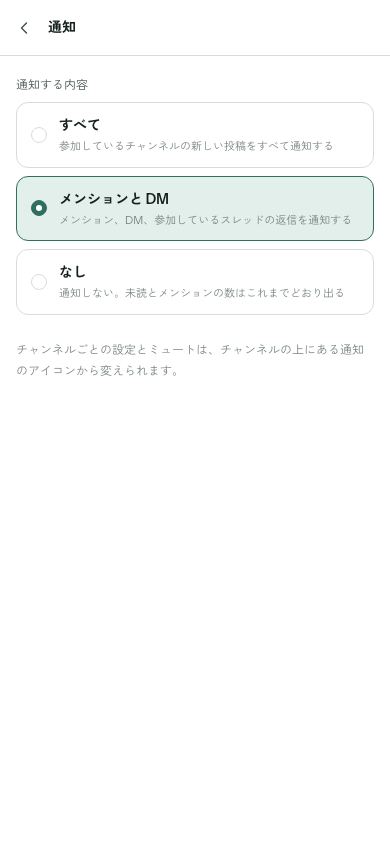
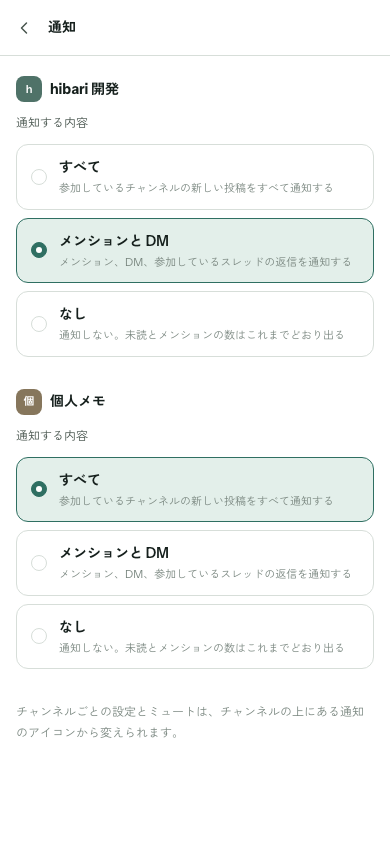
docs(adr): 通知の全体の設定をワークスペースごとに改め、スレッドのミュートを 6.14c に足す
- ADR 0055 決定 2: user_notification_settings をやめ、workspace_members.notify_level にする（オーナーの判断）
- API を /workspaces/{id}/me/notifications に、notifications.updated に workspace_id を足した
- ユーザー設定の「通知」を、所属するワークスペースごとの節にした
- ロードマップに Phase 6.14c（スレッドのミュート。6.14b より先に作る）を足した

diff --git a/web/components/settings/settings-sections.tsx b/web/components/settings/settings-sections.tsx
@@ -249,48 +249,51 @@ export const notificationLevelLabels: Record<NotificationLevel, string> = {
   none: "なし",
 };
 
+/** ユーザー設定の「通知」の 1 節（ワークスペース 1 つ分）。 */
+export type WorkspaceNotificationView = { id: string; name: string; level: NotificationLevel };
+
+const levelDescriptions: Record<NotificationLevel, string> = {
+  all: "参加しているチャンネルの新しい投稿をすべて通知する",
+  mentions: "メンション、DM、参加しているスレッドの返信を通知する",
+  none: "通知しない。未読とメンションの数はこれまでどおり出る",
+};
+
 /**
- * ユーザー設定の「通知」。全体の設定だけを選ぶ。チャンネルごとの上書きとミュートは、ルームのヘッダーの「通知」から変える
- * （Slack と同じ入口。ここに全ルームの一覧を並べると、ワークスペースを選ぶ場所が要る。ADR 0055 決定 2）。
+ * ユーザー設定の「通知」。全体の設定はワークスペースごとなので（ADR 0055 決定 2）、所属するワークスペースごとに節を並べる。
+ * チャンネルごとの上書きとミュートは、ルームのヘッダーの「通知」から変える（Slack と同じ入口）。
  *
  * 設定が変えるのは「通知するか」だけで、未読とメンションの件数はどれを選んでも数える（決定 1）。
  */
 export function NotificationSettings({
-  level,
+  workspaces,
   onLevelChange,
 }: {
-  level: NotificationLevel;
-  onLevelChange?: (level: NotificationLevel) => void;
+  workspaces: WorkspaceNotificationView[];
+  onLevelChange?: (workspaceId: string, level: NotificationLevel) => void;
 }) {
   return (
-    <div className="flex max-w-100 flex-col gap-6">
-      <fieldset className="flex flex-col gap-2">
-        <legend className="pb-2 text-xs text-text-secondary">通知する内容</legend>
-        <RadioCard
-          name="notification-level"
-          value="all"
-          checked={level === "all"}
-          onChange={() => onLevelChange?.("all")}
-          title={notificationLevelLabels.all}
-          description="参加しているチャンネルの新しい投稿をすべて通知する"
-        />
-        <RadioCard
-          name="notification-level"
-          value="mentions"
-          checked={level === "mentions"}
-          onChange={() => onLevelChange?.("mentions")}
-          title={notificationLevelLabels.mentions}
-          description="メンション、DM、参加しているスレッドの返信を通知する"
-        />
-        <RadioCard
-          name="notification-level"
-          value="none"
-          checked={level === "none"}
-          onChange={() => onLevelChange?.("none")}
-          title={notificationLevelLabels.none}
-          description="通知しない。未読とメンションの数はこれまでどおり出る"
-        />
-      </fieldset>
+    <div className="flex max-w-100 flex-col gap-8">
+      {workspaces.map((workspace) => (
+        <fieldset key={workspace.id} className="flex flex-col gap-2">
+          <legend className="flex items-center gap-2 pb-3">
+            <Avatar id={workspace.id} name={workspace.name} size="xs" shape="square" />
+            <span className="text-base font-bold text-text">{workspace.name}</span>
+          </legend>
+          <p className="pb-1 text-xs text-text-secondary">通知する内容</p>
+          {(["all", "mentions", "none"] as const).map((level) => (
+            <RadioCard
+              key={level}
+              // ワークスペースごとに別のラジオのまとまりにする（name が同じだと、節をまたいで 1 つしか選べない）
+              name={`notification-level-${workspace.id}`}
+              value={level}
+              checked={workspace.level === level}
+              onChange={() => onLevelChange?.(workspace.id, level)}
+              title={notificationLevelLabels[level]}
+              description={levelDescriptions[level]}
+            />
+          ))}
+        </fieldset>
+      ))}
       <p className="text-xs leading-relaxed text-text-muted">
         チャンネルごとの設定とミュートは、チャンネルの上にある通知のアイコンから変えられます。
       </p>

diff --git a/web/stories/settings/notifications.stories.tsx b/web/stories/settings/notifications.stories.tsx
@@ -2,6 +2,7 @@ import type { Meta, StoryObj } from "@storybook/nextjs-vite";
 
 import { NotificationSettings } from "@/components/settings/settings-sections";
 
+import { workspaces } from "../fixtures";
 import { userSettings } from "../screens";
 
 /**
@@ -20,17 +21,23 @@ export default meta;
 
 type Story = StoryObj<typeof meta>;
 
+/** 全体の設定はワークスペースごと（ADR 0055 決定 2）。2 つに所属して、別の値を選んでいるところ。 */
+const notificationWorkspaces = [
+  { ...workspaces.dev, level: "mentions" as const },
+  { ...workspaces.memo, level: "all" as const },
+];
+
 export const Notifications: Story = {
   name: "通知",
   tags: ["since:6.14"],
-  render: () => userSettings("notifications", <NotificationSettings level="mentions" />),
+  render: () => userSettings("notifications", <NotificationSettings workspaces={notificationWorkspaces} />),
 };
 
 export const NotificationsDark: Story = {
   name: "通知（ダーク）",
   tags: ["since:6.14"],
   parameters: { theme: "dark" },
-  render: () => userSettings("notifications", <NotificationSettings level="mentions" />),
+  render: () => userSettings("notifications", <NotificationSettings workspaces={notificationWorkspaces} />),
 };
 
 export const MobileNotifications: Story = {
@@ -38,5 +45,5 @@ export const MobileNotifications: Story = {
   tags: ["since:6.14"],
   parameters: { screenshot: { size: "390x844" } },
   globals: { viewport: { value: "mobile" } },
-  render: () => userSettings("notifications", <NotificationSettings level="mentions" />),
+  render: () => userSettings("notifications", <NotificationSettings workspaces={notificationWorkspaces} />),
 };

diff --git a/web/components/settings/settings-sections.test.tsx b/web/components/settings/settings-sections.test.tsx
@@ -43,13 +43,26 @@ describe("AppearanceSettings", () => {
 });
 
 describe("NotificationSettings", () => {
-  it("reflects and changes what to be notified about (ADR 0055)", async () => {
+  it("ワークスペースごとに通知する内容を選べる（ADR 0055 決定 2）", async () => {
     const onLevelChange = vi.fn();
-    render(<NotificationSettings level="mentions" onLevelChange={onLevelChange} />);
+    render(
+      <NotificationSettings
+        workspaces={[
+          { id: "w1", name: "hibari 開発", level: "mentions" },
+          { id: "w2", name: "個人メモ", level: "all" },
+        ]}
+        onLevelChange={onLevelChange}
+      />,
+    );
 
-    expect(screen.getByRole("radio", { name: /メンションと DM/ })).toBeChecked();
-    await userEvent.click(screen.getByRole("radio", { name: /なし/ }));
-    expect(onLevelChange).toHaveBeenCalledWith("none");
+    const dev = screen.getByRole("group", { name: "hibari 開発" });
+    const memo = screen.getByRole("group", { name: "個人メモ" });
+    // 節ごとに別のまとまりなので、どちらも選んだ値が残る
+    expect(within(dev).getByRole("radio", { name: /メンションと DM/ })).toBeChecked();
+    expect(within(memo).getByRole("radio", { name: /すべて/ })).toBeChecked();
+
+    await userEvent.click(within(memo).getByRole("radio", { name: /なし/ }));
+    expect(onLevelChange).toHaveBeenCalledWith("w2", "none");
   });
 });
 

diff --git a/docs/adr/0055-mute-and-notification-settings.md b/docs/adr/0055-mute-and-notification-settings.md
@@ -31,6 +31,8 @@ Phase 6.14 は、チャンネルをミュートできるようにし、タブが
   （隠すと、隠したチャンネルを探す入口と、隠す / 出すの設定が要る）
 - **通知の設定は、全体とチャンネルごとの 2 段**（Slack と同じ）。キーワード通知と通知のスケジュールは作らない
 - **一時的なミュート（1 時間・明日まで）も作る**
+- **全体の設定はワークスペースごと**（2026-09-22 に改めた。決定 2）
+- **スレッドごとのミュートは 6.14a の後**に別で扱う（Slack にはある）
 
 ## 決定
 
@@ -38,7 +40,7 @@ Phase 6.14 は、チャンネルをミュートできるようにし、タブが
 
 | 値 | どこの設定か | 取りうる値 | 未設定のとき |
 |---|---|---|---|
-| 全体の通知する内容 | 本人（ユーザーごと） | `all`（すべて）/ `mentions`（メンションと DM）/ `none`（なし） | `mentions`（Slack の既定と同じ） |
+| 全体の通知する内容 | 本人 × ワークスペース | `all`（すべて）/ `mentions`（メンションと DM）/ `none`（なし） | `mentions`（Slack の既定と同じ） |
 | チャンネルごとの上書き | 本人 × ルーム | `all`（すべての新しい投稿）/ `mentions`（メンションのみ） | 全体の設定に従う |
 | ミュート | 本人 × ルーム | ミュートしている（期限つきか、期限なし） | ミュートしていない |
 
@@ -55,20 +57,18 @@ DM                             → 全体が none でなければ対象（チャ
 - **未読数とメンションの件数は、設定によらずこれまでどおり数える**（ADR 0033 / 0041）。設定が変えるのは「見せ方」と「通知するか」だけ。
   サーバーの数え方を設定で変えると、設定を変えるたびに件数を数え直すことになる
 
-### 2. 全体の設定は、ユーザーごとの 1 行（Postgres）
+### 2. 全体の設定は、ワークスペースごと（`workspace_members` の列）
 
 ```sql
-CREATE TABLE user_notification_settings (
-    user_id    uuid        PRIMARY KEY REFERENCES users (id) ON DELETE CASCADE,
-    level      text        NOT NULL CHECK (level IN ('all', 'mentions', 'none')),
-    updated_at timestamptz NOT NULL
-);
+ALTER TABLE workspace_members
+    ADD COLUMN notify_level text CHECK (notify_level IN ('all', 'mentions', 'none'));
 ```
 
-- **ユーザーごと**にする（Slack はワークスペースごと）。設定画面（`/settings`）はユーザーの画面で、ワークスペースを選ぶ場所がないため。
-  ワークスペースごとに変えたくなったら、`workspace_members` に上書きの列を足せば、同じ規則（上書きがなければ全体）で広げられる
-- 手動の離席（ADR 0049 の `user_presence_settings`）と同じく、設定するときだけ行を作る。**chat のテーブル**で、auth は知らない（CLAUDE.md ルール 1）
-- 本人が選んだ設定なので Postgres に置く（ルール 5）
+- **ワークスペースごと**にする（Slack と同じ。オーナーの判断、2026-09-22 に改めた。下の「状態の履歴」）。
+  仕事のワークスペースはすべて、趣味のワークスペースはメンションだけ、のように分けられる
+- NULL なら `mentions`（未設定）。カスタムステータス（ADR 0049 決定 5）と同じく、主キーがすでに「ワークスペース × ユーザー」の
+  `workspace_members` に列を足し、新しいテーブルを作らない。ワークスペースを抜けたら設定も消える
+- **chat のテーブル**で、auth は知らない（CLAUDE.md ルール 1）。本人が選んだ設定なので Postgres に置く（ルール 5）
 
 ### 3. チャンネルごとの設定は、`room_members` の列
 
@@ -93,15 +93,16 @@ ALTER TABLE room_members
 ### 4. API
 
 ```
-GET /api/v1/users/me/notifications                     → {"level": "mentions"}
-PUT /api/v1/users/me/notifications                     {"level": "all" | "mentions" | "none"}
+GET /api/v1/workspaces/{workspaceID}/me/notifications   → {"level": "mentions"}
+PUT /api/v1/workspaces/{workspaceID}/me/notifications   {"level": "all" | "mentions" | "none"}
 PUT /api/v1/rooms/{roomID}/me/notifications            {"level": "all" | "mentions" | null, "muted_until": null | "2026-09-22T12:00:00Z", "muted": true | false}
 ```
 
 - ルームの設定は**全部の値を 1 回で置き換える**（`PUT`）。メニューで 1 つを変えるときも、手元の残りの値と一緒に送る。
   部分の更新（`PATCH`）にしないのは、「ミュートを外したら期限も消える」のような組み合わせの規則を、サーバーの 1 か所で守るため
 - 検証（外れたら 422）: `muted_until` は未来の時刻だけ（`Clock` で判定）、`muted` が false なら `muted_until` は null、DM では `level` は null
-- パスは auth の `/users/me` の下に並ぶが、**ハンドラも DB の行も chat のもの**（ADR 0049 の `/users/me/presence` と同じ）
+- ワークスペースの設定は、カスタムステータス（ADR 0049 の `/workspaces/{id}/me/status`）と同じく `/workspaces/{id}/me` の下に置く。
+  メンバーでなければ 404（ワークスペースの存在を明かさない。ほかの `/workspaces/{id}` と同じ）
 - ルームの一覧と 1 件（`GET /workspaces/{id}/rooms`、`GET /rooms/{id}`）の応答に、本人の設定を足す:
 
 ```jsonc
@@ -114,12 +115,12 @@ PUT /api/v1/rooms/{roomID}/me/notifications            {"level": "all" | "mentio
 設定は本人だけの状態なので、**本人のすべての接続に届ける**（別のタブ・別の端末をそろえる）。
 
 ```jsonc
-{ "type": "notifications.updated",      "data": { "level": "all" } }
+{ "type": "notifications.updated",      "data": { "workspace_id": "01J8...", "level": "all" } }
 { "type": "room.notifications_updated", "data": { "workspace_id": "01J8...", "room_id": "01J8...",
                                                   "level": null, "muted": true, "muted_until": null } }
 ```
 
-- 再接続したら、ルームの一覧（設定を含む）と全体の設定を取り直す。どちらも行が少なく、`change_seq` のような差分の仕組みは要らない
+- 再接続したら、ルームの一覧（設定を含む）と、開いているワークスペースの全体の設定を取り直す。どちらも行が少なく、`change_seq` のような差分の仕組みは要らない
   （ADR 0049 のメンバー一覧と同じ考え方。「後で」（ADR 0054）と違って、ページングする一覧ではない）
 - **期限切れのイベントは配らない。** クライアントは `muted_until` を持っているので、自分でタイマーを張って薄い表示を戻す（ADR 0049 と同じ）
 
@@ -129,6 +130,7 @@ PUT /api/v1/rooms/{roomID}/me/notifications            {"level": "all" | "mentio
 - メンションの件数（`@N`。ADR 0043）は出す。ミュートしていても自分宛ては分かるようにする（Slack と同じ）
 - 並びは変えない（最後のメッセージが新しい順。ミュートしたものを下に寄せない）
 - 設定の入口はルームのヘッダーの「通知」のアイコン（Slack と同じ）と、ユーザー設定の「通知」。見た目はデザインで描いて、オーナーに見てもらう
+  （ユーザー設定の「通知」には、所属するワークスペースごとの節を並べる。`docs/ui/README.md` の「Phase 6.14a で足した画面」）
 
 ## 理由
 
@@ -138,14 +140,14 @@ PUT /api/v1/rooms/{roomID}/me/notifications            {"level": "all" | "mentio
   設定を変えた瞬間に過去の分まで数え直しが要り、数の意味が人によって変わる。見せ方の差にしておけば、サーバーは今のままでよい。
 - **期限を読むときに落とす理由**: ADR 0049 のカスタムステータスと同じ。期限ごとにジョブを起こして「解除されました」を配るより、
   読む側が時刻を比べる方が経路が少なく、止まっていたサーバーが戻ったときの取りこぼしもない。
-- **全体の設定をユーザーごとにする理由**: 設定画面がユーザーの画面で、ワークスペースごとに分ける入口がない。
-  ワークスペースごとにしたくなったときも、上書きの列を足すだけで同じ規則のまま広げられる（上の決定 2）。
+- **全体の設定をワークスペースごとにする理由**: ワークスペースは使い方（仕事・趣味）ごとに分かれていて、通知の強さもそれに合わせたい
+  （オーナーの判断）。`workspace_members` の列にすれば、ワークスペースを抜けたときの後始末も要らない。
 
 ## 検討した代替案
 
 - **ミュートしたチャンネルをサイドバーから隠す**（Slack の既定）: オーナーと比較して不採用。隠したチャンネルへ戻る入口と、隠す / 出すの設定が要る。
-- **全体の設定をワークスペースごとにする**（Slack と同じ）: 設定画面にワークスペースを選ぶ場所を作る必要がある。いまはワークスペースを
-  1 つだけ使う人がほとんどで、分ける価値より入口の複雑さの方が大きい。
+- **全体の設定をユーザーごとにする**（最初の案。`user_notification_settings`）: 設定画面にワークスペースを選ぶ場所が要らないが、
+  ワークスペースごとに通知の強さを変えられない。オーナーの判断で改めた（2026-09-22）。
 - **ミュートを `muted_until` だけで表す**（無期限を `infinity`）: 上の決定 3 のとおり、`infinity` をドメインに持ち込むことになる。
 - **設定をルームの `change_seq` や差分に乗せる**: 設定は本人だけのもので、ルームの全員の差分に混ぜる理由がない（ADR 0054 の「後で」と同じ判断）。
   一覧が小さいので、本人ごとの番号も要らない。
@@ -163,3 +165,7 @@ PUT /api/v1/rooms/{roomID}/me/notifications            {"level": "all" | "mentio
   オーナーの判断を取り、採用。
 - 2026-09-22: 一時的なミュートの「明日まで」は「明日いっぱい」とする（オーナーの判断）。`muted_until` は翌々日の 0:00 で、
   日付の区切りは利用者の端末のタイムゾーン。クライアントが `Clock` から求めて送る（サーバーは未来の時刻かだけを検証する。決定 4 のまま）。
+- 2026-09-22: 全体の設定を**ユーザーごとからワークスペースごと**に改めた（オーナーの判断。構築順 3 の前）。
+  `user_notification_settings` は作らず `workspace_members.notify_level` にし、API を `/workspaces/{id}/me/notifications` に、
+  `notifications.updated` に `workspace_id` を足した。
+- 2026-09-22: スレッドごとのミュート（Slack にある）は、6.14a の後に別の ADR で扱う（オーナーの判断。ロードマップの Phase 6.14c）。
